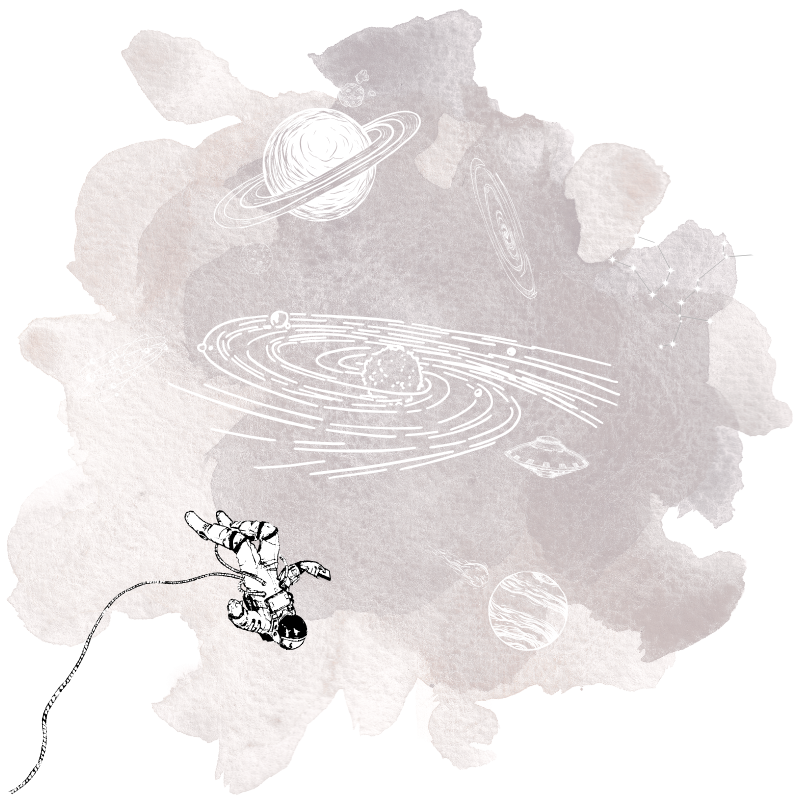
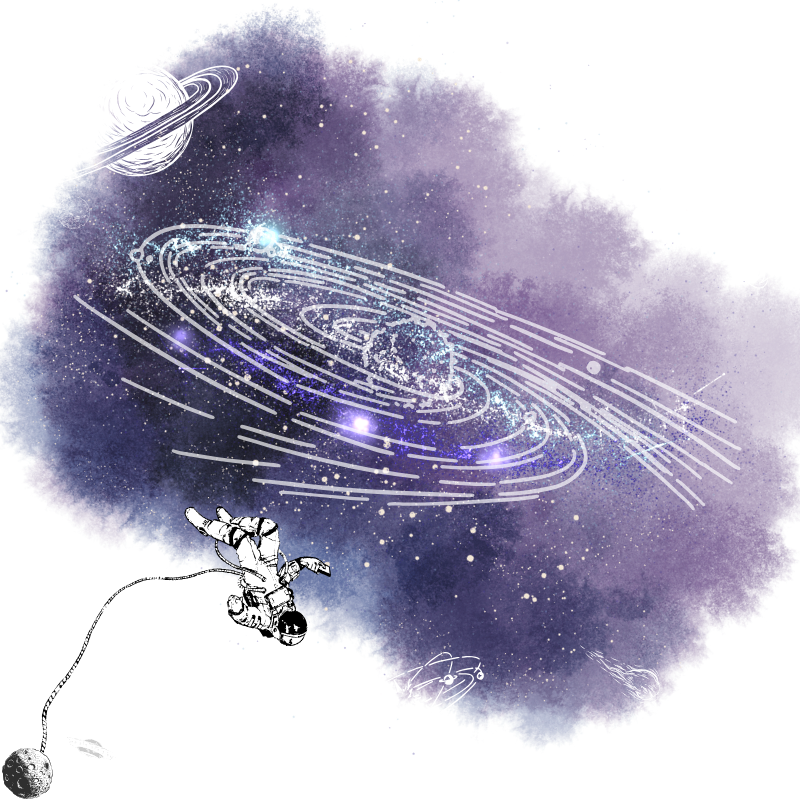
fixed size of left hover range of bg image

diff --git a/assets/css/style.css b/assets/css/style.css
@@ -197,7 +197,30 @@ html.is-scrolling body::-webkit-scrollbar-thumb {
 .bg-corner--left {
   left: 0;
   bottom: 0;
-  margin-left: -1.5rem;
+  margin-left: 1.25rem;
+  width: max-content;
+  height: clamp(160px, 17vw, 290px);
+}
+
+/* Hover limited to figure edge.*/
+.bg-corner--left .bg-corner__sizer {
+  display: block;
+  height: 100%;
+  width: auto;
+  opacity: 0;
+  pointer-events: none;
+}
+
+.bg-corner--left .bg-corner__sizer--dark {
+  display: none;
+}
+
+html[data-theme="dark"] .bg-corner--left .bg-corner__sizer--light {
+  display: none;
+}
+
+html[data-theme="dark"] .bg-corner--left .bg-corner__sizer--dark {
+  display: block;
 }
 
 .bg-corner--left .bg-corner__base {

diff --git a/index.html b/index.html
@@ -18,6 +18,8 @@
 <body class="view-home">
   <div class="bg-corners" aria-hidden="true">
     <div class="bg-corner bg-corner--left" tabindex="0">
+      <img class="bg-corner__sizer bg-corner__sizer--light" src="pictures/bg-left-corner-light.png">
+      <img class="bg-corner__sizer bg-corner__sizer--dark" src="pictures/bg-left-corner-dark.png">
       <span class="bg-corner__base"></span>
       <span class="bg-corner__hover"></span>
     </div>
